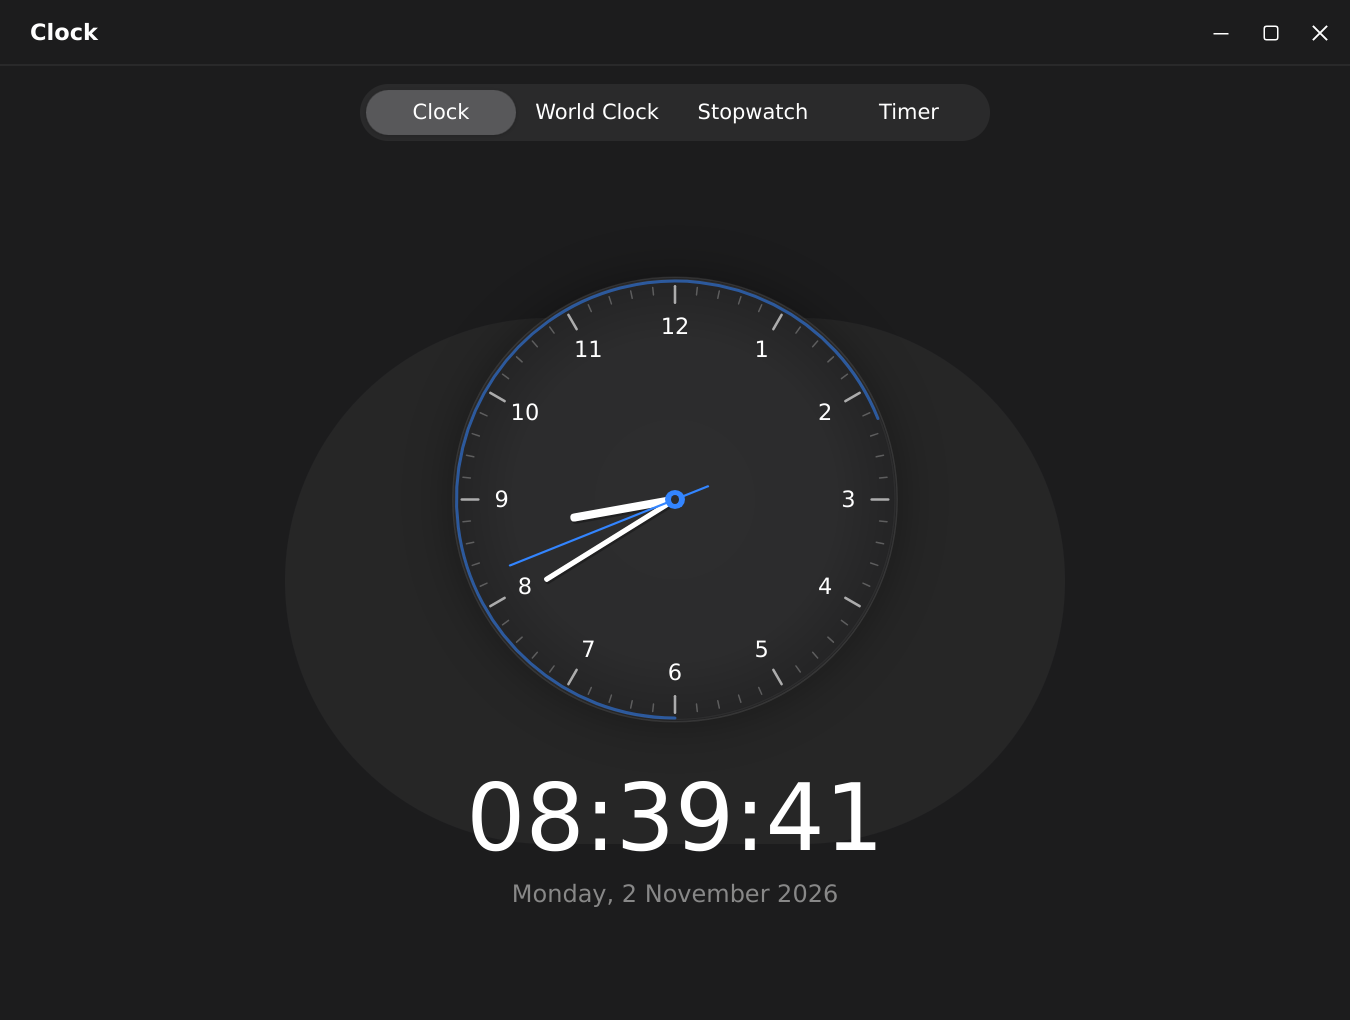
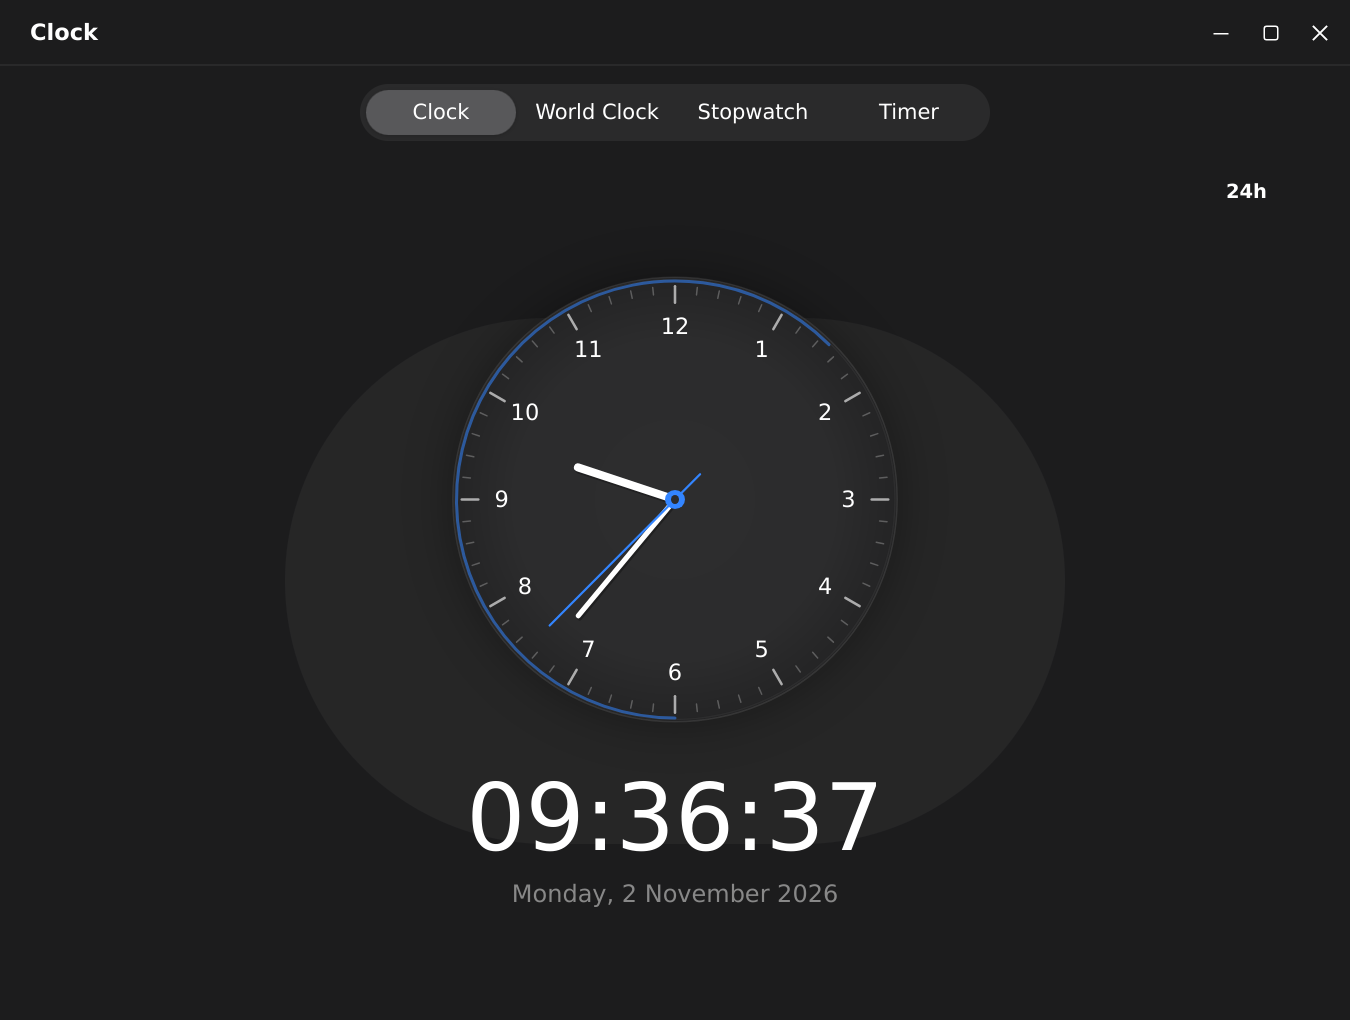
feat: polish the application and add the remaining interactions
Add the missing details and controls, with updated screenshots.

diff --git a/src/views/clockpage.cpp b/src/views/clockpage.cpp
@@ -4,7 +4,9 @@
 #include "views/clockpage.h"
 
 #include "views/analogclock.h"
+#include "views/widgets.h"
 
+#include "base/i18n.h"
 #include "model/timeformat.h"
 #include "ui/color_id.h"
 #include "ui/label.h"
@@ -15,6 +17,7 @@
 
 using namespace Lingmo::ui;
 using namespace std::chrono_literals;
+using Lingmo::i18n::tr;
 
 namespace Clock {
 
@@ -22,9 +25,16 @@ ClockPage::ClockPage()
     : m_clock(addChild<AnalogClock>())
     , m_time(addChild<Label>())
     , m_date(addChild<Label>())
+    , m_formatButton(addChild<PillButton>(tr("24h"), PillButton::Style::Ghost))
 {
     setName("clockPage");
     m_clock->setName("analogClock");
+
+    m_formatButton->setName("formatButton");
+    m_formatButton->setCompact(true);
+    m_formatButton->setMinimumWidth(58);
+    m_formatButton->setFontSize(12.5);
+    m_formatButton->onClicked = [this] { toggleTwentyFourHourClock(); };
 
     m_time->setName("digitalTime");
     m_time->setFontSize(62);
@@ -41,6 +51,7 @@ ClockPage::ClockPage()
     m_date->setVerticallyCentered(true);
 
     m_twentyFourHour = localeUsesTwentyFourHourClock();
+    m_formatButton->setText(m_twentyFourHour ? tr("24h") : tr("12h"));
     m_tick.setInterval(40ms);
     m_tick.onTimeout = [this] { update(); };
     update();
@@ -89,8 +100,14 @@ void ClockPage::setTwentyFourHourClock(bool twentyFourHour)
     if (m_twentyFourHour == twentyFourHour)
         return;
     m_twentyFourHour = twentyFourHour;
+    m_formatButton->setText(m_twentyFourHour ? tr("24h") : tr("12h"));
     m_shownSecond = -1;
     update();
+}
+
+void ClockPage::toggleTwentyFourHourClock()
+{
+    setTwentyFourHourClock(!m_twentyFourHour);
 }
 
 std::string ClockPage::dateTextFor(const ClockReading& reading) const
@@ -126,6 +143,7 @@ void ClockPage::update()
 
 void ClockPage::retranslate()
 {
+    m_formatButton->setText(m_twentyFourHour ? tr("24h") : tr("12h"));
     m_shownSecond = -1;
     m_shownDay = -1;
     update();
@@ -144,6 +162,7 @@ void ClockPage::layout()
     const double gapAfterTime = 4;
     const double total = clockSide + gapAfterClock + timeHeight + gapAfterTime + dateHeight;
     double y = std::max(8.0, (rect.height - total) / 2);
+    m_formatButton->setGeometry({std::max(margin, rect.width - 86), 10, 66, 28});
     m_clock->setGeometry({(rect.width - clockSide) / 2, y, clockSide, clockSide});
     y += clockSide + gapAfterClock;
     m_time->setGeometry({margin, y, rect.width - 2 * margin, timeHeight});

diff --git a/tests/ui_test.cpp b/tests/ui_test.cpp
@@ -150,6 +150,21 @@ TEST_F(ClockWindowTest, ClockShowsTheDateAndTheDigitalTime)
     EXPECT_EQ(window().clockPage()->timeText(), "2:05:09 PM");
 }
 
+TEST_F(ClockWindowTest, TogglesTheClockFormat)
+{
+    window().clockPage()->setTimeSource(fixedReading);
+    window().clockPage()->setTwentyFourHourClock(true);
+    spin(10);
+    EXPECT_TRUE(window().clockPage()->usesTwentyFourHourClock());
+    window().clockPage()->toggleTwentyFourHourClock();
+    spin(10);
+    EXPECT_FALSE(window().clockPage()->usesTwentyFourHourClock());
+    EXPECT_EQ(window().clockPage()->timeText(), "2:05:09 PM");
+    window().clockPage()->toggleTwentyFourHourClock();
+    spin(10);
+    EXPECT_EQ(window().clockPage()->timeText(), "14:05:09");
+}
+
 TEST_F(ClockWindowTest, StopwatchShortcutsStartLapPauseAndReset)
 {
     window().selectPage(ClockWindow::PageStopwatch);

diff --git a/src/views/clockpage.h b/src/views/clockpage.h
@@ -18,6 +18,7 @@ class Label;
 namespace Clock {
 
 class AnalogClock;
+class PillButton;
 
 // The clock's own page: the big analog face over the digital time with its
 // seconds and the date.
@@ -40,6 +41,7 @@ public:
     // Follows the session locale.
     bool usesTwentyFourHourClock() const { return m_twentyFourHour; }
     void setTwentyFourHourClock(bool twentyFourHour);
+    void toggleTwentyFourHourClock();
 
     void retranslate();
     void update();
@@ -56,6 +58,7 @@ private:
     AnalogClock* m_clock;
     Lingmo::ui::Label* m_time;
     Lingmo::ui::Label* m_date;
+    PillButton* m_formatButton;
     Lingmo::base::Timer m_tick;
     std::function<ClockReading()> m_timeSource;
     ClockReading m_reading;

diff --git a/src/clockwindow.cpp b/src/clockwindow.cpp
@@ -260,6 +260,10 @@ void ClockWindow::bindShortcuts()
         else if (m_currentPage == PageTimer)
             m_root->timer->reset();
     });
+    bind(NoModifier, letter('t'), [this] {
+        if (m_currentPage == PageClock)
+            m_root->clock->toggleTwentyFourHourClock();
+    });
 
     bind(ControlModifier, letter('q'), [] { Application::instance()->quit(); });
 }

diff --git a/README.md b/README.md
@@ -4,7 +4,7 @@ A native clock, world clock, stopwatch and timer for Lingmo OS.
 
 ## Features
 
-- Analog and digital clock with date
+- Analog and digital clock with date and a 12/24-hour switch
 - World clock for a set of cities
 - Stopwatch with laps
 - Countdown timer with presets
